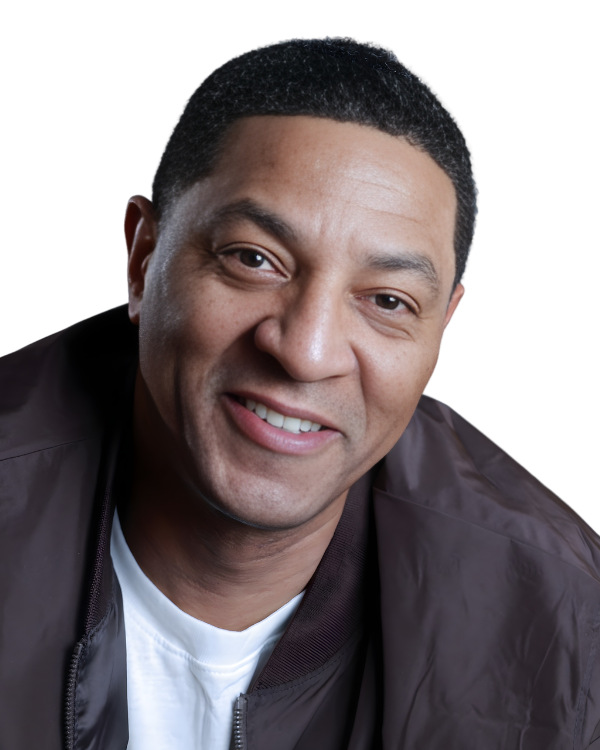
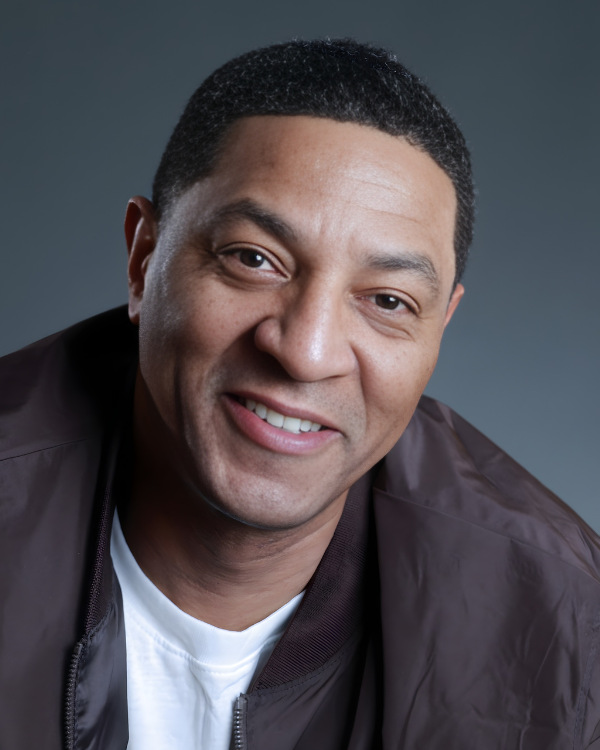
About slideshow: four studio-backdrop photos in the aqua frame
Claude-Session: https://claude.ai/code/session_018ARzsoW867g6bfz2TYGirb

diff --git a/index.html b/index.html
@@ -1244,7 +1244,8 @@ document.addEventListener('click',function(e){var a=e.target.closest&&e.target.c
         <div class="about-show" role="img" aria-label="Photos of Ben Anthony">
           <img class="show-slide" src="ben-photo-1.jpg" alt="" width="600" height="750">
           <img class="show-slide" src="ben-photo-2.jpg" alt="" width="600" height="750">
-          <img class="show-slide" src="ben-photo-3.jpg" alt="" width="416" height="520">
+          <img class="show-slide" src="ben-photo-3.jpg" alt="" width="600" height="750">
+          <img class="show-slide" src="ben-photo-4.jpg" alt="" width="416" height="520">
         </div>
         <div class="about-badge">
           <div class="about-badge-lockup">
